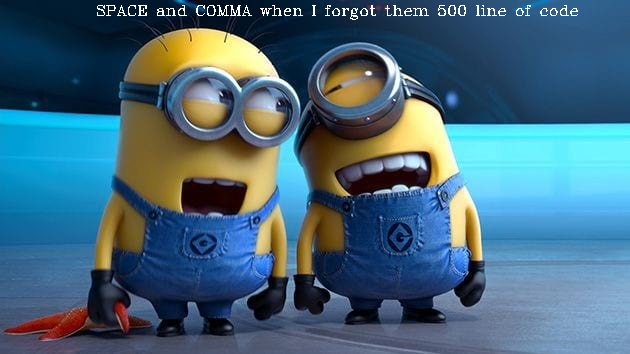
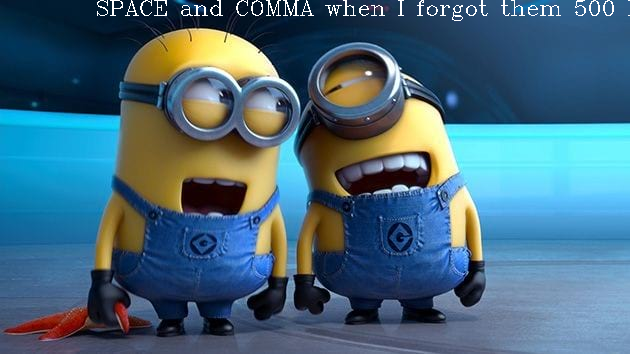
*

Changed region(s): [[0.1508, 0.0, 0.9952, 0.0621]]

diff --git a/meme_creator.py b/meme_creator.py
@@ -1,7 +1,8 @@
 import cv2
 import matplotlib.pyplot as plt
 img=cv2.imread('img/minion.jpg')
-m = cv2.putText(img,'SPACE and COMMA when I forgot them 500 line of code', (95,15), cv2.FONT_HERSHEY_COMPLEX,0.5, (255,255,255))
+
+m = cv2.putText(img,'SPACE and COMMA when I forgot them 500 line of code', (95,15), cv2.FONT_HERSHEY_COMPLEX,0.7, (255,255,255))
 path='img/meme.png'
 cv2.imwrite(path,m)
 meme = cv2.imread('img/meme.png')

diff --git a/qr_code_reader.py b/qr_code_reader.py
@@ -1,0 +1,11 @@
+import cv2
+import matplotlib.pyplot as plt
+from torch import qr
+
+d = cv2.imread('img/qrcode.png')
+plt.imshow(d)
+plt.show()
+code_reader=cv2.QRCodeDetector()
+data, points, _ = code_reader.detectAndDecode(d)
+if points is not None:
+    print('Link is:',data)
